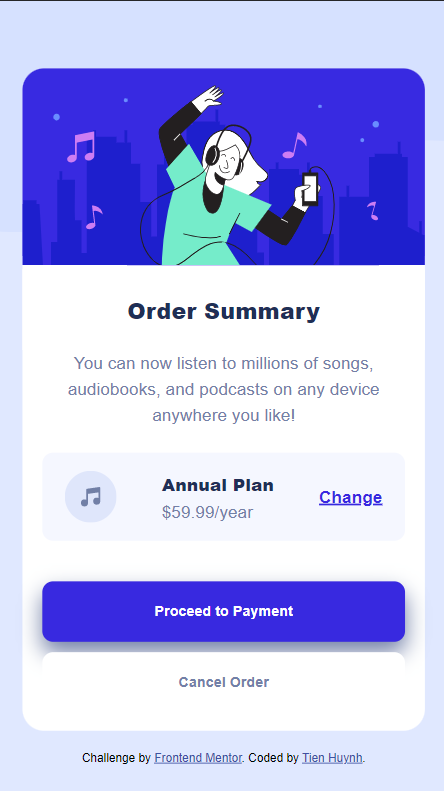
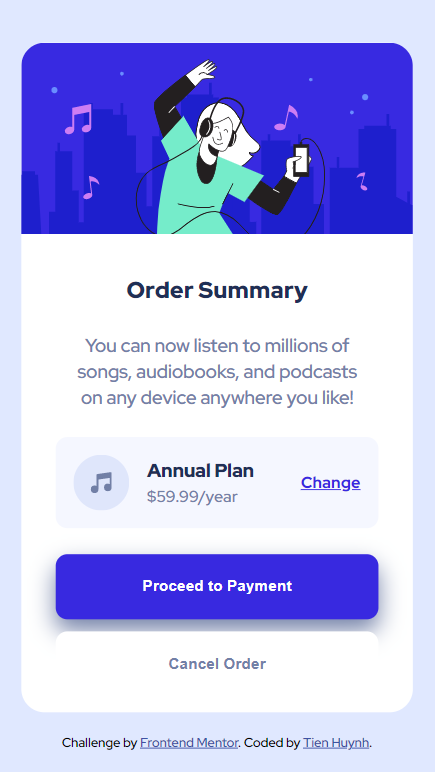
Apply suggestion from Frontend Mentor

diff --git a/order-summary-component/css/style.css b/order-summary-component/css/style.css
@@ -1,103 +1,102 @@
-*{
+* {
     margin: 0;
     padding: 0;
     box-sizing: border-box;
 }
 
-html{
+html {
     font-family: 'Red Hat Display', sans-serif;
 }
 
-/* Mobile first */
-body{
-    background-image: url(../images/pattern-background-mobile.svg);
-    background-size: contain;
+body {
+    background-image: url(../images/pattern-background-desktop.svg);
     background-repeat: no-repeat;
+    background-size: contain;
     background-color: hsl(225, 100%, 94%);
 }
 
-header{
-    margin: 15% 5% 0;
-    background-color: #fff;
-    border-radius: 20px 20px 0 0;
+main {
+    display: flex;
+    align-items: center;
+    justify-content: center;
 }
 
-header .banner{
+#component {
+    max-width: 425px;
+    background-color: #fff;
+    margin-top: 1.8cm;
+    border-radius: 20px;
+}
+
+#component .banner {
     width: 100%;
     border-radius: 20px 20px 0 0;
 }
 
-header .heading{
+.heading {
     color: hsl(223, 47%, 23%);
-    text-align: center;
     font-weight: 900;
-    font-size: 130%;
-    padding: 6% 0;
-    background-color: #fff;
+    font-size: 20px;
+    text-align: center;
+    padding: 1cm 0 0;
 }
 
-main{
-    background-color: #fff;
-    border-radius: 0 0 20px 20px;
-    margin: 0 5%;
-}
-
-main .content{
-    padding: 0 10%;
-}
-
-main .content-text{
+.content {
     color: hsl(224, 23%, 55%);
     font-size: 100%;
     text-align: center;
-    line-height: 1.5;
-    margin-bottom: 8%;
+    line-height: 1.4;
+    padding: 0.4cm 1.4cm;
 }
 
-main .plan{
+.plan {
+    margin: 0 0.8cm 0.6cm;
+    padding: .4cm;
     background-color: hsl(225, 100%, 98%);
     border-radius: 10px;
-    margin: 0 5% 10%;
     display: flex;
     align-items: center;
-    justify-content: space-around;
 }
 
-.plan .plan-icon{
-    margin-top: 5%;
-    margin-bottom: 5%;
+.plan__icon {
+    margin-right: .4cm;
 }
 
-.plan .plan-type{
+.plan__type {
+    flex-grow: 3;
     display: flex;
     flex-direction: column;
-    justify-content: space-evenly;
+    justify-content: center;
 }
 
-.plan .plan-name{
+.plan__type-name {
     font-weight: 900;
     color: hsl(223, 47%, 23%);
-    padding: 0 0 3%;
+    padding: 0 0 1px;
+    font-size: 16px;
 }
 
-.plan .plan-price{
+.plan__type-price {
     color: hsl(224, 23%, 55%);
-    padding: 3% 0 0;
+    padding: 1px 0 0;
+    font-size: 14px;
 }
 
-.plan .plan-change{
+.plan__change {
+    margin-left: .4cm;
     text-decoration: underline;
     color: hsl(245, 75%, 52%);
     font-weight: 700;
     cursor: pointer;
+    font-size: 14px;
 }
 
 .plan .plan-change:hover{
     color: hsl(223, 47%, 23%);
 }
 
-main .button{
-    margin: 5% 5%;
+.button{
+    margin: 0 .8cm;
 }
 
 .button input{
@@ -116,8 +115,10 @@ main .button{
     margin-bottom: 10px;
 }
 
-.button .pay-btn:hover{
-    background-color: hsl(223, 47%, 23%);
+.button .pay-btn:hover, 
+.button .cancel-btn:hover {
+    background-color: hsla(223, 47%, 23%, 0.5);
+    color: #fff;
 }
 
 .button .cancel-btn{
@@ -127,58 +128,28 @@ main .button{
     background-color: #fff;
 }
 
-.button .cancel-btn:hover{
-    background-color: hsl(223, 47%, 23%);
-}
-/* 
-@media screen and (min-width: 240px){
-
+.attribution {
+    margin-top: .5cm;
 }
 
-@media screen and (min-width: 320px){
-    
-}
-
-@media screen and (min-width: 375px){
-    
-}
-
-@media screen and (min-width: 480px){
-    
-} */
-
-@media screen and (min-width: 768px){
-    body{
-        background-image: url(../images/pattern-background-desktop.svg);
+@media (max-width: 376px) {
+    body {
+        background-image: url(../images/pattern-background-mobile.svg);
     }
-    
-    header{
-        margin: 15% 25% 0;
-    }
-    
-    main{
-        margin: 0 25%;
-    }    
-}
 
-@media screen and (min-width: 1024px){
-    header{
-        margin: 30% 30% 0;
+    #component {
+        margin: 1cm .5cm .5cm;
     }
-    
-    main{
-        margin: 0 30%;
-    }    
-}
 
-@media screen and (min-width: 1140px){
-    header{
-        margin: 8% 35% 0;
+    .heading {
+        padding-top: 0.8cm;
     }
-    
-    main{
-        margin: 0 35%;
+
+    .content {
+        padding: 0.6cm 1cm;
+    }
+
+    .attribution {
+        margin-top: 0;
     }
 }
-
-

diff --git a/order-summary-component/index.html b/order-summary-component/index.html
@@ -4,13 +4,12 @@
 <head>
   <meta charset="UTF-8">
   <meta name="viewport" content="width=device-width, initial-scale=1.0">
-  <!-- displays site properly based on user's device -->
-
   <!-- Link to logo -->
   <link rel="icon" type="image/png" sizes="32x32" href="./images/favicon-32x32.png">
   <link rel="stylesheet" href="./css/style.css">
   <link rel="preconnect" href="https://fonts.googleapis.com">
   <link rel="preconnect" href="https://fonts.gstatic.com" crossorigin>
+  <link href="https://fonts.googleapis.com/css2?family=Red+Hat+Display:wght@500;700;900&display=swap" rel="stylesheet">
   <title>Frontend Mentor | Order summary card</title>
 
   <style>
@@ -26,34 +25,30 @@
 </head>
 
 <body>
-  <header>
-    <img class="banner" src="./images/illustration-hero.svg" alt="Banner Hero">
-    <h1 class="heading">Order Summary</h1>
-    
-  </header>
-
   <main>
-    <div class="content">
-      <p class="content-text">
+    <div id="component">
+      <img class="banner" src="./images/illustration-hero.svg" alt="Banner Hero">
+      <h1 class="heading">Order Summary</h1>
+      <p class="content">
         You can now listen to millions of songs, audiobooks, and podcasts on any
         device anywhere you like!
       </p>
-    </div>
 
-    <div class="plan">
-      <img src="./images/icon-music.svg" alt="icon music" class="plan-icon">
+      <div class="plan">
+        <img src="./images/icon-music.svg" alt="icon music" class="plan__icon">
 
-      <div class="plan-type">
-        <div class="plan-name">Annual Plan</div>
-        <div class="plan-price">$59.99/year</div>
+        <div class="plan__type">
+          <div class="plan__type-name">Annual Plan</div>
+          <div class="plan__type-price">$59.99/year</div>
+        </div>
+
+        <div class="plan__change">Change</div>
       </div>
 
-      <div class="plan-change">Change</div>
-    </div>
-
-    <div class="button">
-      <input type="button" value="Proceed to Payment" class="pay-btn">
-      <input type="button" value="Cancel Order" class="cancel-btn">
+      <div class="button">
+        <input type="button" value="Proceed to Payment" class="pay-btn">
+        <input type="button" value="Cancel Order" class="cancel-btn">
+      </div>
     </div>
   </main>
 
